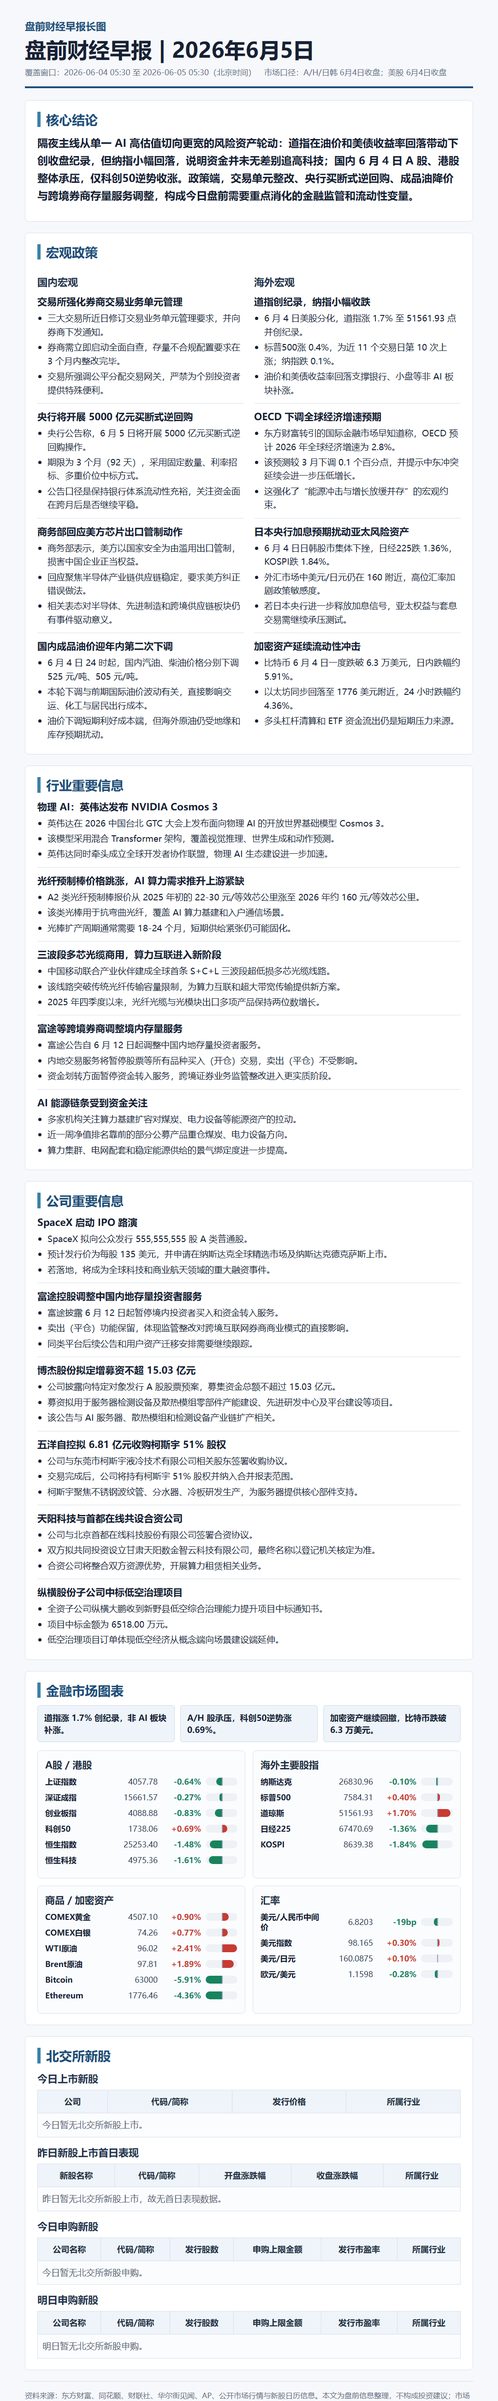
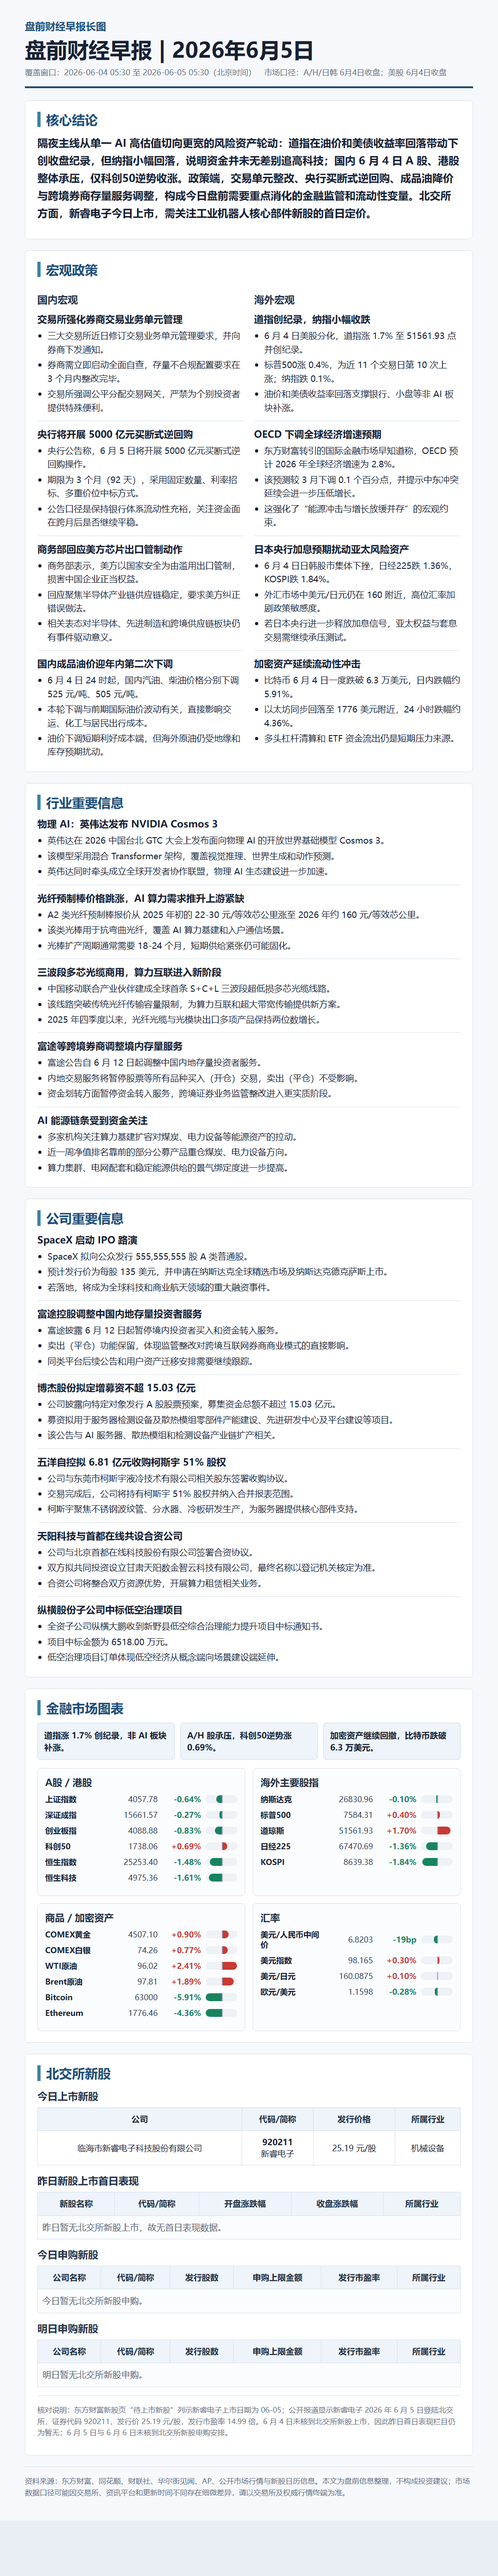
Publish 2026-06-05 morning brief

Changed region(s): [[0.0306, 0.0, 0.9472, 1.0], [0.6417, 0.81, 0.7639, 0.8723], [0.7028, 0.3427, 0.7944, 0.3738]]

diff --git a/2026-06-05/report.html b/2026-06-05/report.html
@@ -71,7 +71,7 @@
 
     <section>
       <h2>核心结论</h2>
-      <p class="lead">隔夜主线从单一 AI 高估值切向更宽的风险资产轮动：道指在油价和美债收益率回落带动下创收盘纪录，但纳指小幅回落，说明资金并未无差别追高科技；国内 6 月 4 日 A 股、港股整体承压，仅科创50逆势收涨。政策端，交易单元整改、央行买断式逆回购、成品油降价与跨境券商存量服务调整，构成今日盘前需要重点消化的金融监管和流动性变量。</p>
+      <p class="lead">隔夜主线从单一 AI 高估值切向更宽的风险资产轮动：道指在油价和美债收益率回落带动下创收盘纪录，但纳指小幅回落，说明资金并未无差别追高科技；国内 6 月 4 日 A 股、港股整体承压，仅科创50逆势收涨。政策端，交易单元整改、央行买断式逆回购、成品油降价与跨境券商存量服务调整，构成今日盘前需要重点消化的金融监管和流动性变量。北交所方面，新睿电子今日上市，需关注工业机器人核心部件新股的首日定价。</p>
     </section>
 
     <section>
@@ -295,7 +295,7 @@
       <h3>今日上市新股</h3>
       <table class="narrow">
         <thead><tr><th>公司</th><th>代码/简称</th><th>发行价格</th><th>所属行业</th></tr></thead>
-        <tbody><tr><td colspan="4" class="empty">今日暂无北交所新股上市。</td></tr></tbody>
+        <tbody><tr><td>临海市新睿电子科技股份有限公司</td><td><strong>920211</strong><br>新睿电子</td><td>25.19 元/股</td><td>机械设备</td></tr></tbody>
       </table>
       <h3>昨日新股上市首日表现</h3>
       <table>
@@ -312,6 +312,7 @@
         <thead><tr><th>公司名称</th><th>代码/简称</th><th>发行股数</th><th>申购上限金额</th><th>发行市盈率</th><th>所属行业</th></tr></thead>
         <tbody><tr><td colspan="6" class="empty">明日暂无北交所新股申购。</td></tr></tbody>
       </table>
+      <p class="footer">核对说明：东方财富新股页“待上市新股”列示新睿电子上市日期为 06-05；公开报道显示新睿电子 2026 年 6 月 5 日登陆北交所，证券代码 920211，发行价 25.19 元/股，发行市盈率 14.99 倍。6 月 4 日未核到北交所新股上市，因此昨日首日表现栏目仍为暂无；6 月 5 日与 6 月 6 日未核到北交所新股申购安排。</p>
     </section>
 
     <div class="footer">

diff --git a/2026-06-05/sources-2026-06-05.md b/2026-06-05/sources-2026-06-05.md
@@ -40,9 +40,13 @@
 
 ## 北交所核对
 
-- 公开检索关键词：`2026年6月5日 北交所 今日上市 新股 申购 920`、`2026年6月4日 北交所 新股上市 首日表现 920`、`2026年6月5日 北交所 新股申购 东方财富 920`、`2026年6月6日 北交所 新股申购 920`。
-- 检索结果仅核到 2026-06-03 永大股份（920126）申购，未核到 2026-06-05 北交所新股上市、2026-06-04 北交所新股上市首日表现、2026-06-05 北交所申购、2026-06-06 北交所申购的有效公开记录。
-- 因自动化要求不判断休市或节假日，四段栏目全部保留并写明暂无。
+- 东方财富新股页：待上市新股中列示新睿电子（920211）发行价格 25.19 元，上市日期 06-05，中签率 0.0187%；新股发行一览中列示新睿电子 05-25 申购、05-28 中签/缴款、06-05 上市。
+  - https://stock.eastmoney.com/newstock.html
+- DoNews 快讯：新睿电子 6 月 5 日登陆北交所，证券代码 920211，发行价 25.19 元/股，发行市盈率 14.99 倍。
+  - https://www.donews.com/news/detail/8/6582362.html
+- 证券时报：新睿电子申购信息，发行代码 920211，发行价 25.19 元，发行市盈率 14.99 倍，单一账户申购上限 28.80 万股。
+  - https://www.stcn.com/article/detail/3924753.html
+- 东方财富/证券之星/证券时报新股日历交叉核对：未发现 2026-06-04 北交所新股上市首日表现标的、2026-06-05 北交所新股申购、2026-06-06 北交所新股申购的有效公开记录，相关三段保留并写“暂无”。
 
 ## 数据缺口
 
